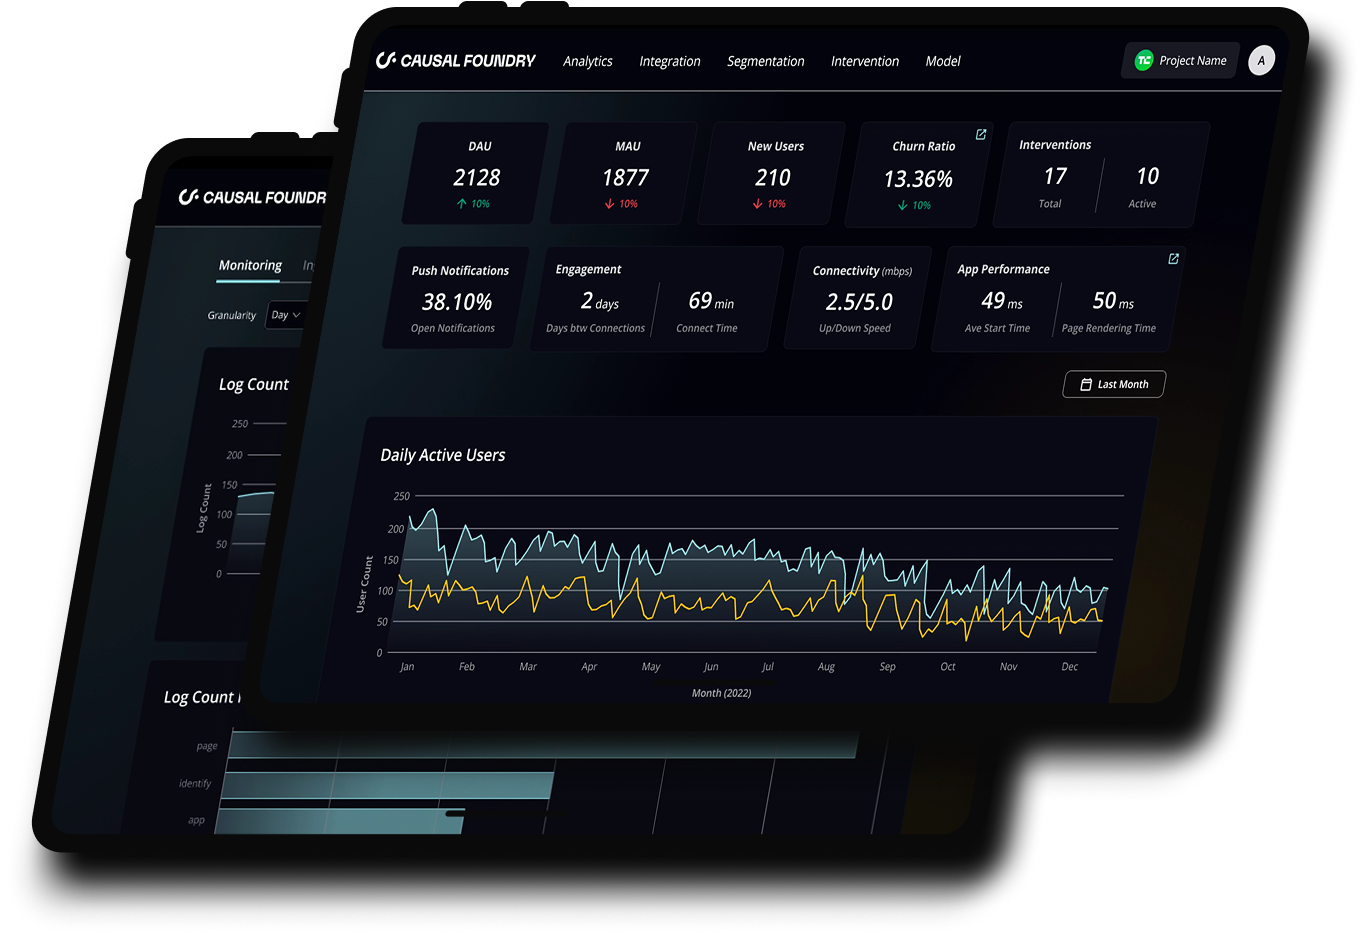
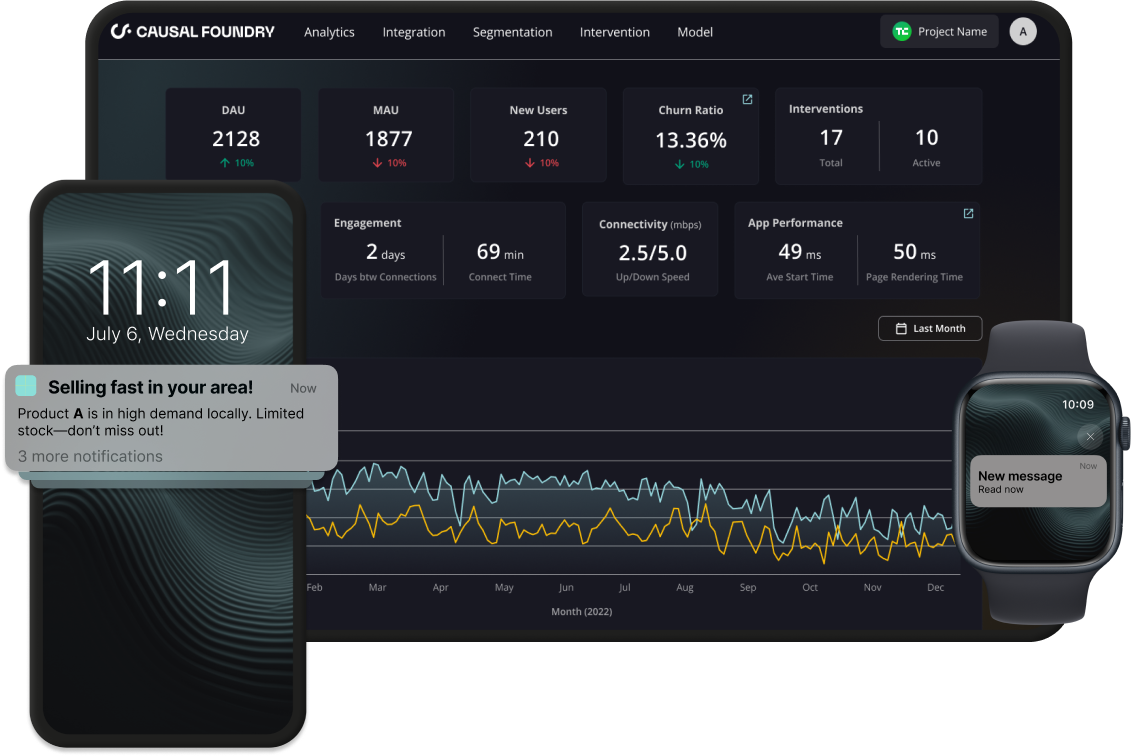
Updated header of landing

diff --git a/src/pages/Landing/Landing.scss b/src/pages/Landing/Landing.scss
@@ -14,60 +14,19 @@
   display: flex;
   justify-content: center;
 
-  .landing-short-summary {
-    z-index: 100000;
-    position: relative;
-    top: -380px;
+  .dashboard-view {
     display: flex;
     justify-content: center;
-    //    align-items: center;
 
-    padding: 40px 10% 40px 10%;
-    //height: 199px;
-    background: linear-gradient(
-        93deg,
-        rgba(48, 17, 241, 0.2) -8.68%,
-        rgba(83, 85, 233, 0.2) 11.72%,
-        rgba(116, 150, 225, 0.2) 38.64%,
-        rgba(134, 186, 221, 0.2) 65.85%,
-        rgba(152, 222, 217, 0.2) 87.98%
-      ),
-      #000;
+    .dashboard {
+      position: relative;
+      // left: 484px;
+      z-index: 1000;
 
-    .landing-short-summary-item {
-      flex: 1;
-      padding-left: 20px;
-      border-left: 1px solid;
-      border-image: linear-gradient(to bottom, #49fbdf, #737373) 1;
-
-      &__title {
-        font-size: 24px;
-        font-family: "NeueMachinaMedium";
+      @include respond("mobile") {
+        left: unset;
+        width: 100%;
       }
-
-      &__text {
-        font-family: "NotoSansLight";
-        font-size: 16px;
-        font-weight: 300;
-        line-height: 25px;
-      }
-    }
-
-    @include respond("mobile") {
-      flex-direction: column;
-      gap: 50px;
-      top: -100px;
-    }
-  }
-
-  .dashboard {
-    position: relative;
-    left: 484px;
-    z-index: 1000;
-
-    @include respond("mobile") {
-      left: unset;
-      width: 100%;
     }
   }
 
@@ -104,10 +63,18 @@
   .jumbotron {
     position: relative;
     z-index: 1;
-    padding: 255px 140px 400px;
+    padding-right: 100px;
+    padding-left: 100px;
+    // padding: 255px 140px;
 
-    padding-left: $app-side-padding-desktop;
-    padding-right: 375px;
+    //padding-left: $app-side-padding-desktop;
+    //  padding-right: 375px;
+
+    display: flex;
+    flex-direction: column;
+    gap: 32px;
+    align-items: center;
+    justify-content: center;
 
     @include respond("tablet") {
       padding-top: 150px;
@@ -126,15 +93,13 @@
     }
 
     .title {
-      max-width: 800px;
       margin-bottom: 32px;
-
       font-family: "NeueMachinaMedium";
       font-size: 58px;
       font-weight: 400;
       line-height: 1.3;
       letter-spacing: 0.01em;
-      text-align: left;
+      text-align: center;
 
       @include respond("tablet") {
         width: 100%;
@@ -153,14 +118,15 @@
     .description {
       position: relative;
       z-index: 1;
-      max-width: 691px;
+      padding-left: 100px;
+      padding-right: 100px;
+      text-align: center;
 
       font-family: "NotoSansLight";
       font-size: 26px;
       font-weight: 300;
       line-height: 39px;
       letter-spacing: 0em;
-      text-align: left;
 
       @include respond("tablet") {
         width: 100%;

diff --git a/src/pages/Landing/Landing.vue b/src/pages/Landing/Landing.vue
@@ -17,19 +17,18 @@
         <div class="jumbotron landing" :id="Section.Landing">
           <div class="title">
             <AppTitle>Personalized </AppTitle>
-            <p>
-              interventions to revolutionize
-              <br /><DynamicText
-                :values="[
-                  'healthcare',
-                  'global health',
-                  'insurance',
-                  'e-commerce',
-                  'education',
-                  'videogames',
-                ]"
-              />
-            </p>
+
+            interventions to revolutionize
+            <DynamicText
+              :values="[
+                'healthcare',
+                'global health',
+                'insurance',
+                'e-commerce',
+                'education',
+                'videogames',
+              ]"
+            />
           </div>
 
           <div class="description">
@@ -38,25 +37,18 @@
           <div class="circle top">
             <img src="../../assets/pattern-circle.png" alt="" />
           </div>
+
+          <div class="dashboard-view">
+            <img
+              class="dashboard"
+              :src="`/images/landing/dashboard.png`"
+              alt=""
+            />
+          </div>
         </div>
       </IntersectionObserver>
 
-      <img class="dashboard" :src="`/images/landing/dashboard.png`" alt="" />
-
-      <div class="landing-short-summary">
-        <div
-          v-for="(landing_item, index) in summaries"
-          :key="index"
-          class="landing-short-summary-item"
-        >
-          <div class="landing-short-summary-item__title">
-            {{ landing_item.title }}
-          </div>
-          <div class="landing-short-summary-item__text">
-            {{ landing_item.text }}
-          </div>
-        </div>
-      </div>
+      <ShortDescriptionList :items="summaries" />
 
       <IntersectionObserver
         @intersect="handleIntersect(Section.Problem, $event)"
@@ -141,6 +133,7 @@ import AppFooter from "@/components/AppFooter";
 import News from "@/components/News";
 import FundedBy from "@/components/FundedBy";
 import DynamicText from "@/components/DynamicText";
+import ShortDescriptionList from "@/components/ShortDescriptionList";
 import IntersectionObserver from "@/components/IntersectionObserver";
 
 import { Section } from "@/typings/section";
